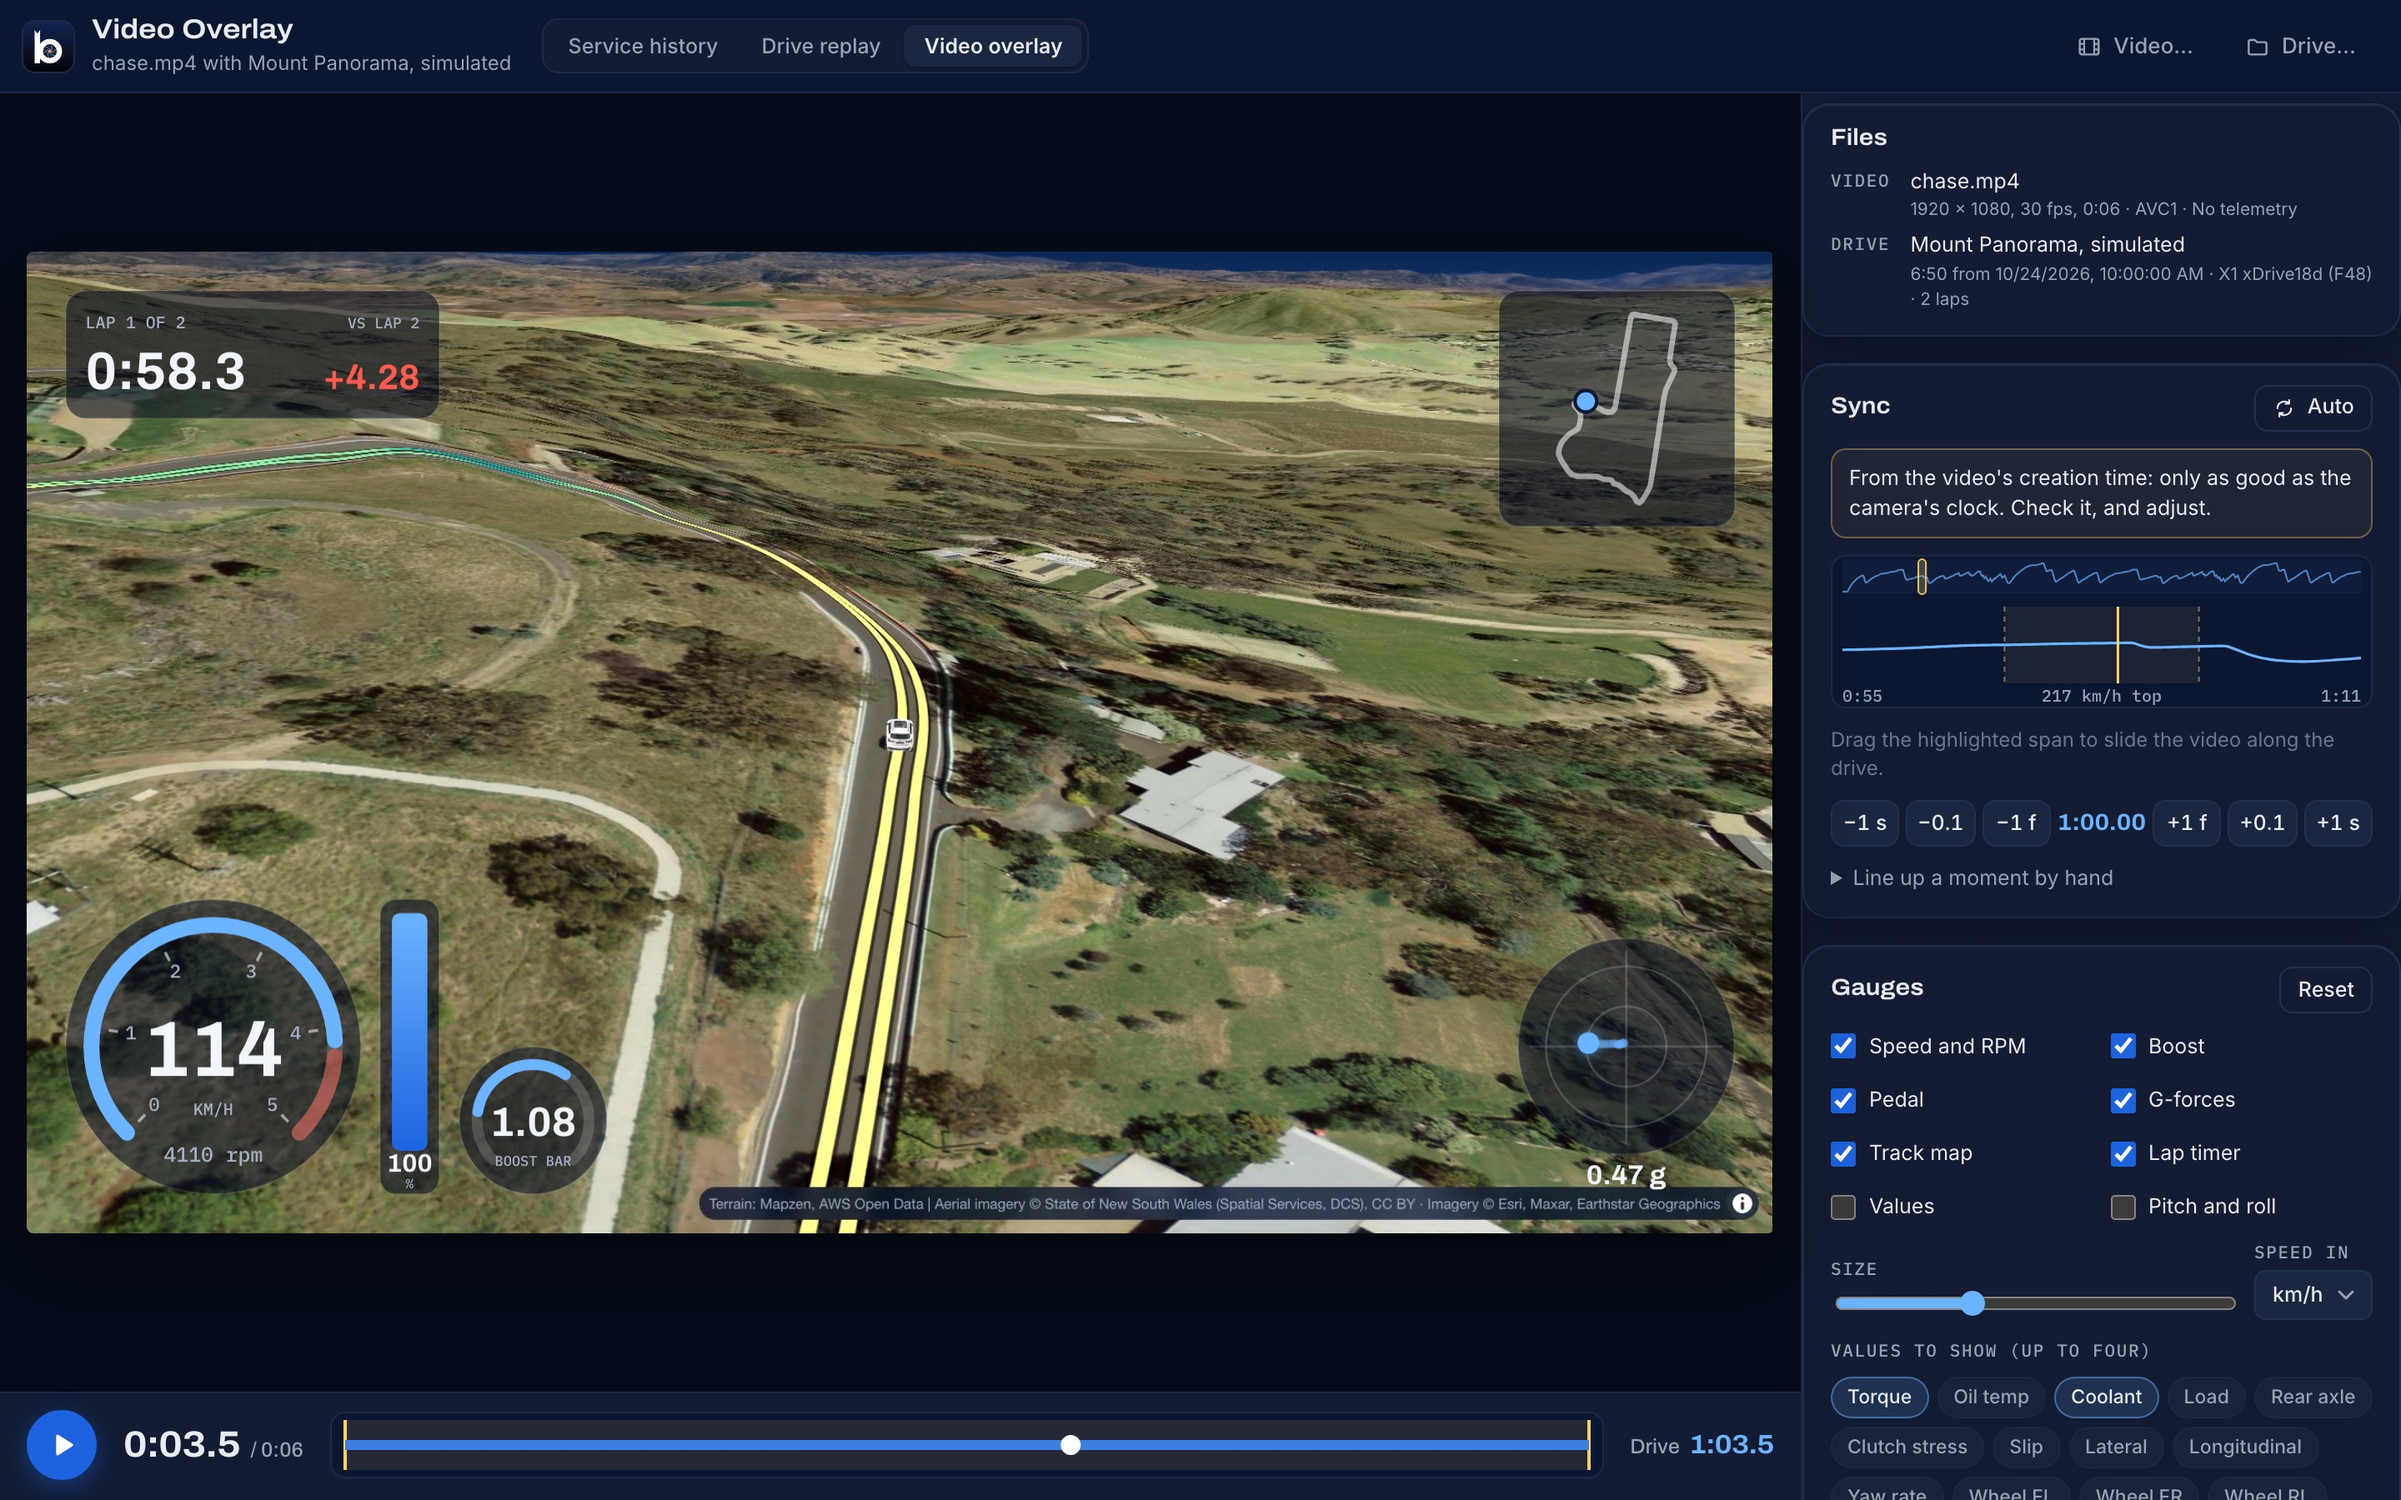
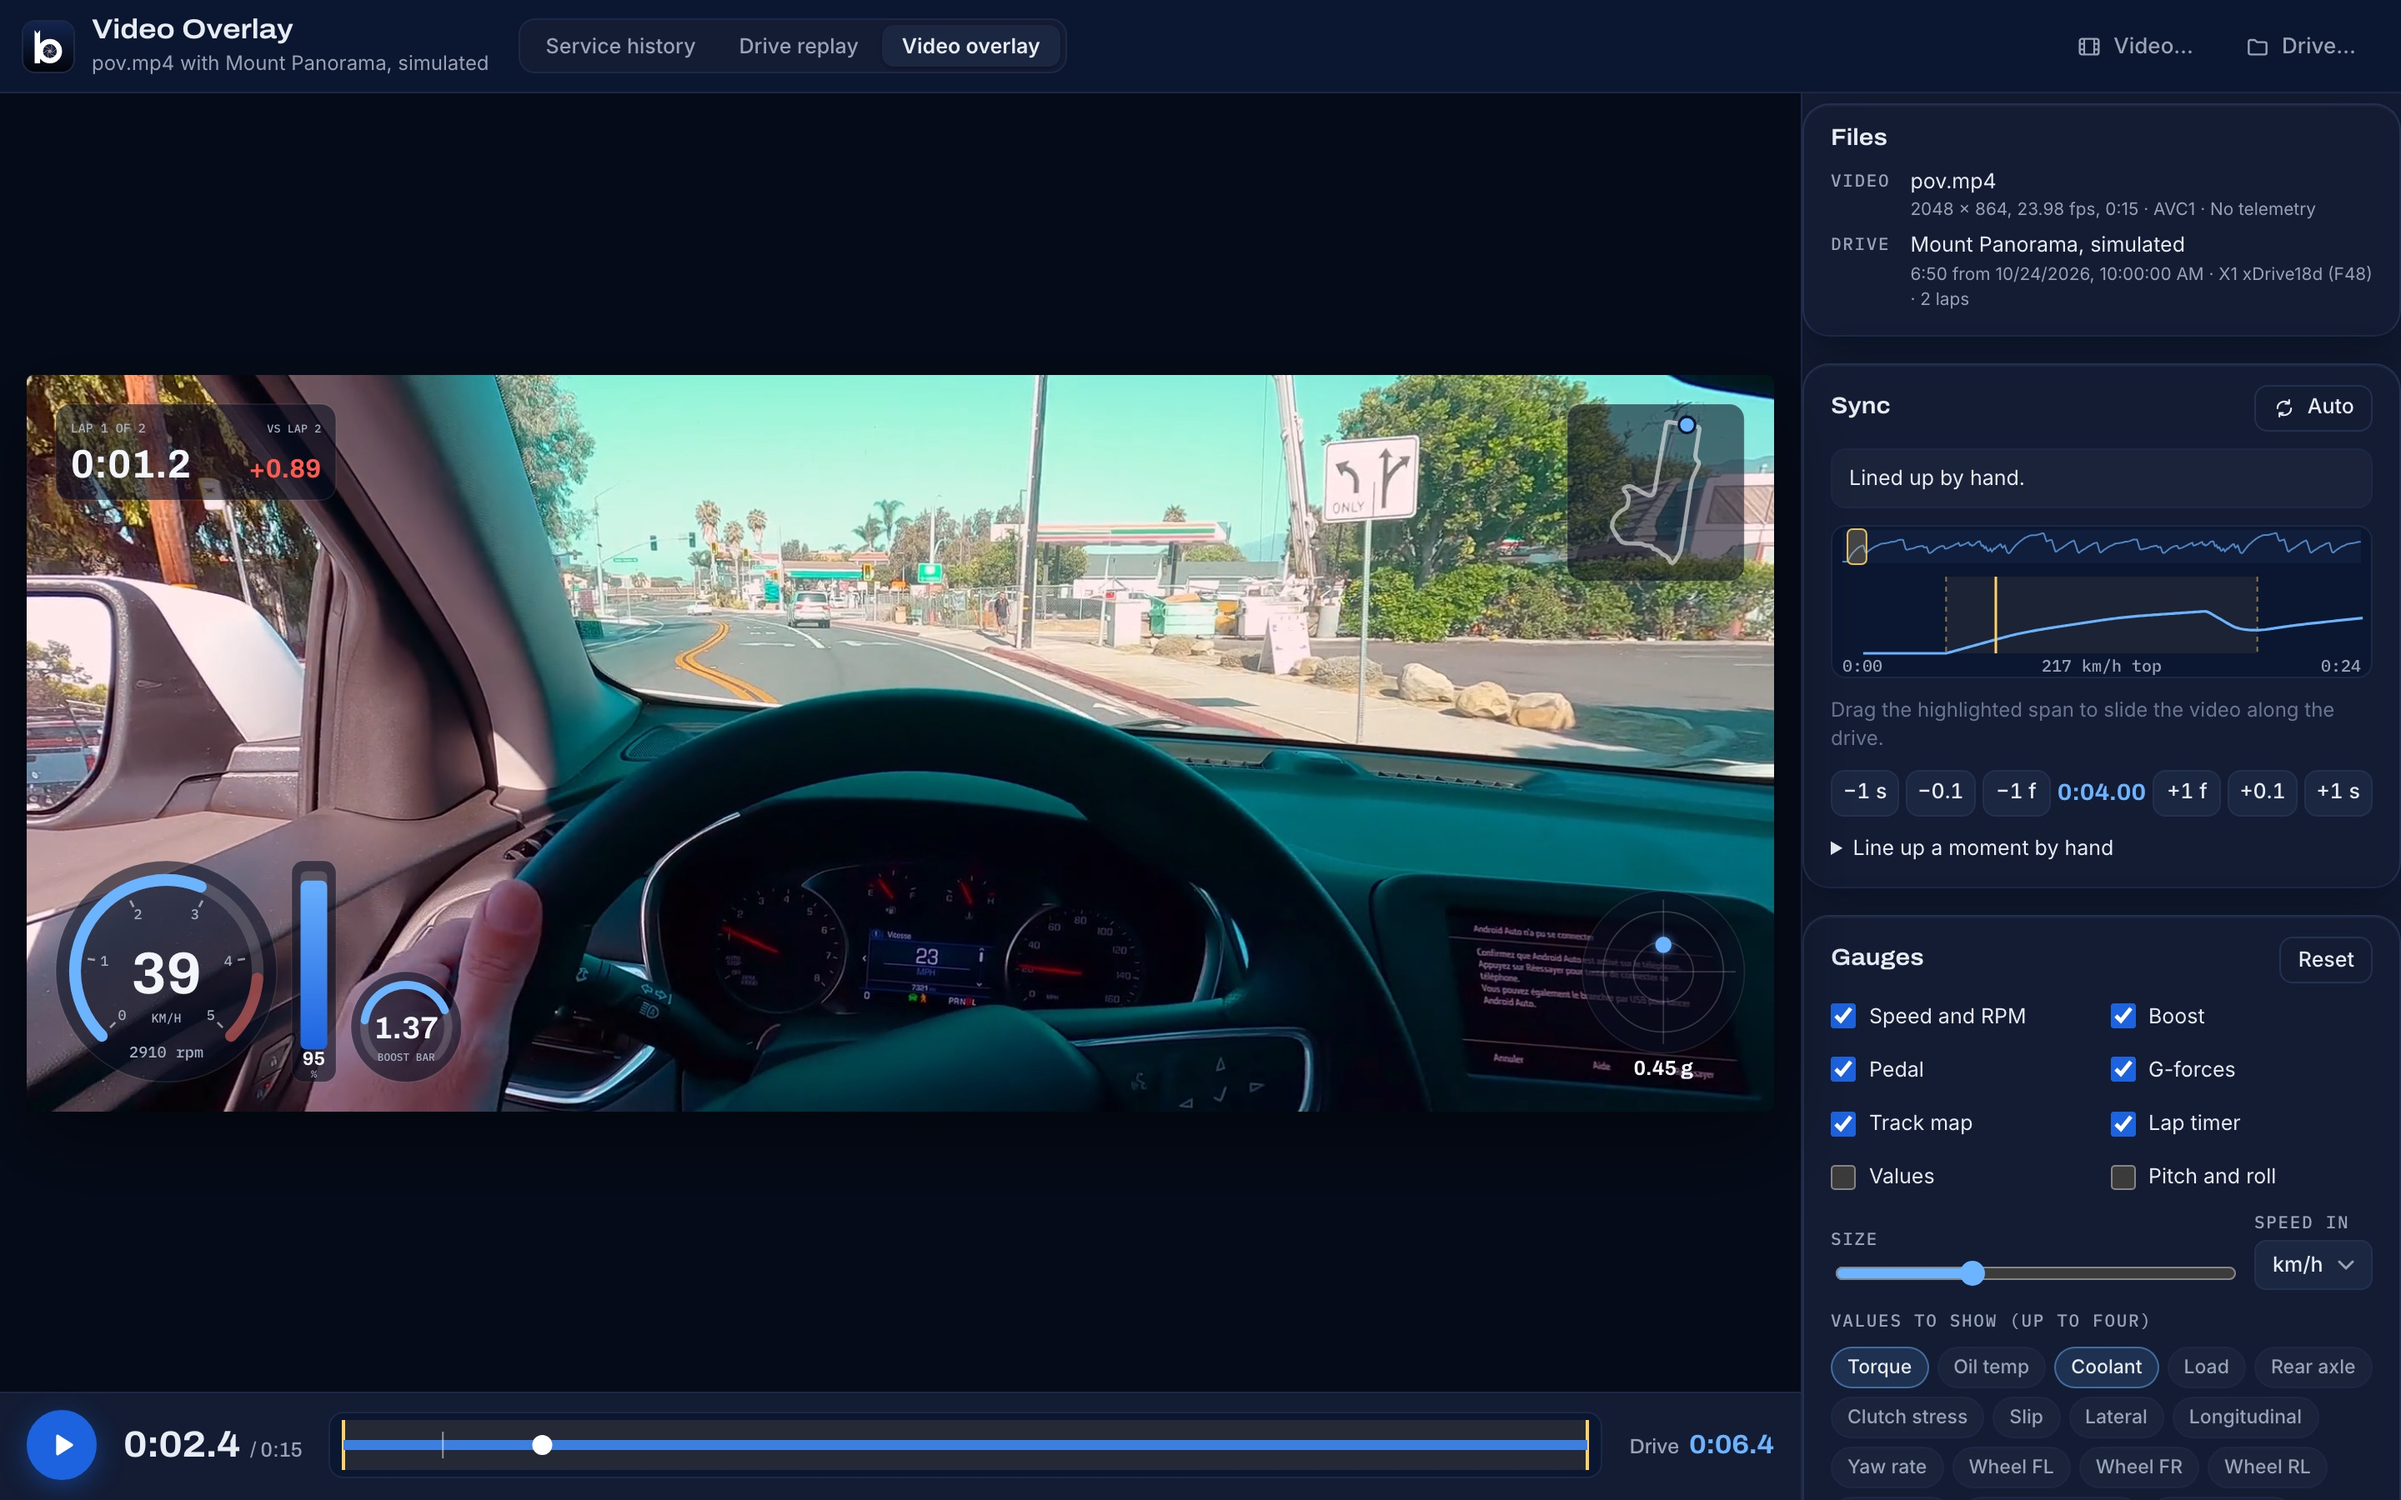
README: Video overlay screenshot over an in-car video

diff --git a/README.md b/README.md
@@ -157,7 +157,7 @@ computer that plays them. Nothing is uploaded.
 
 ![Video overlay: speed and RPM, pedal, boost, g-forces, the track map and a lap timer over the video, with its sync and gauge settings beside it](screenshots/overlay.jpg)
 
-*The video here is the sample drive's own chase view, recorded from Drive replay, standing in for a camera's.*
+*A placeholder: a stock in-car video (by Dimitri Baret, [Pexels](https://www.pexels.com/video/15828653/)) lined up by hand with the sample drive's start, so the gauges aren't that car's own.*
 
 **Light or dark.** Under **Advanced** at the bottom of the page, **Appearance** chooses Light,
 Dark or System (follow the computer).
